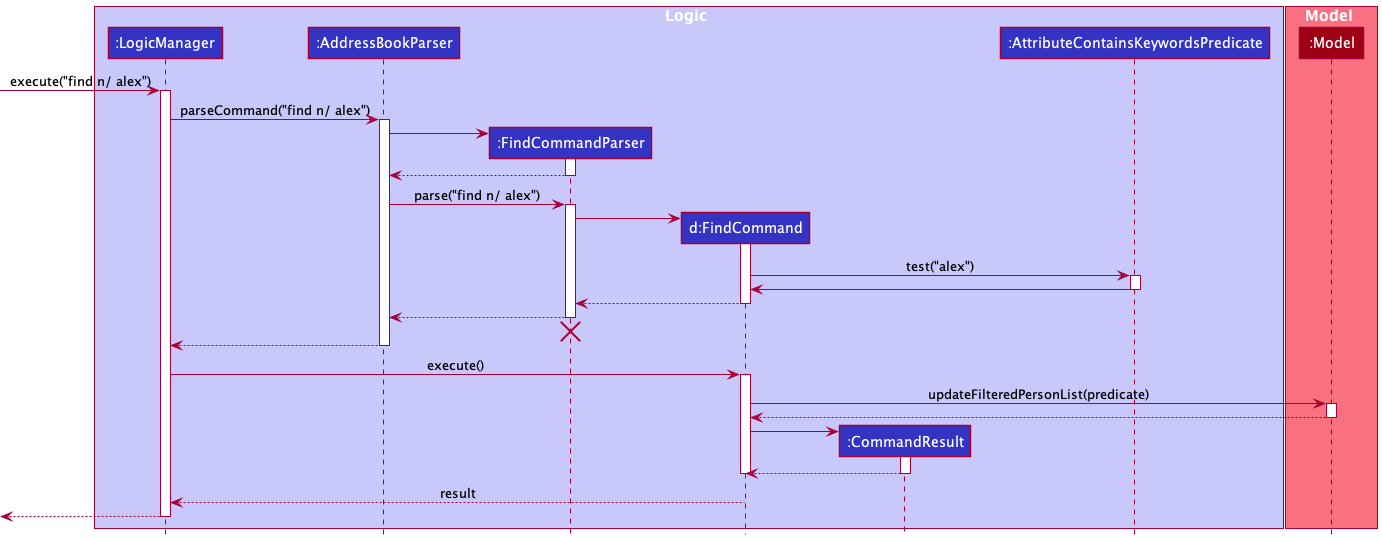
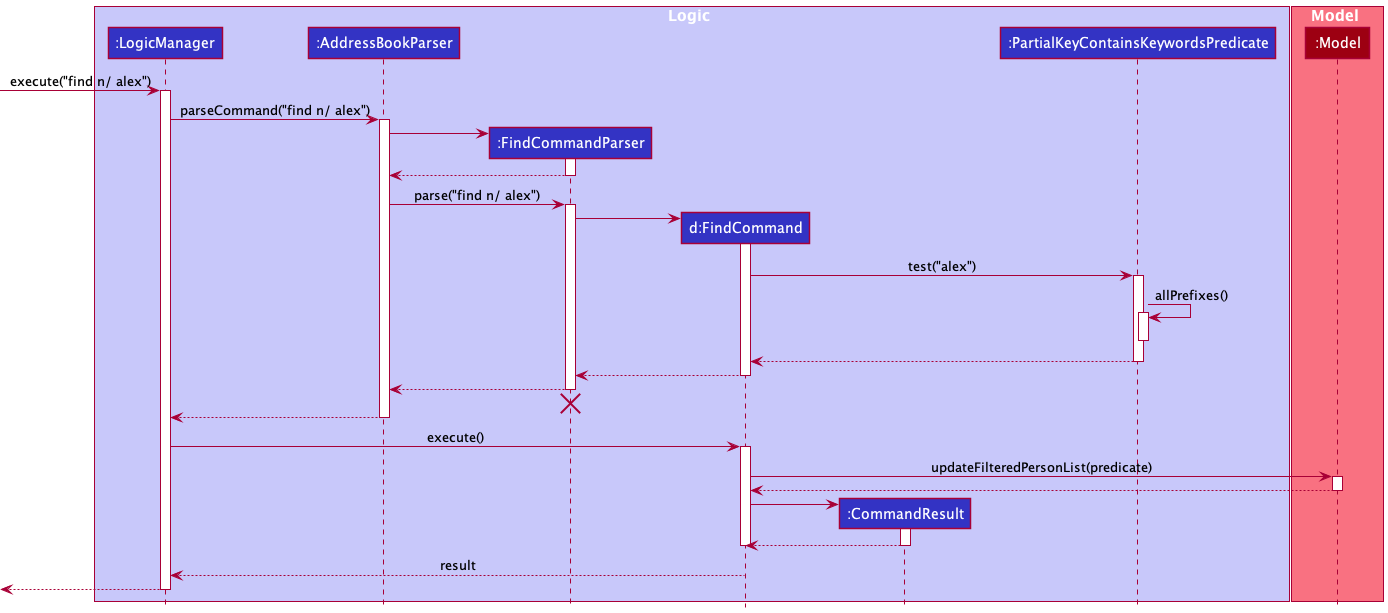
Edit DG, UG, modify testcases

diff --git a/src/test/java/seedu/address/model/person/TagContainsKeywordsPredicateTest.java b/src/test/java/seedu/address/model/person/TagContainsKeywordsPredicateTest.java
@@ -49,6 +49,11 @@ public class TagContainsKeywordsPredicateTest {
         TagContainsKeywordsPredicate predicate =
                 new TagContainsKeywordsPredicate(Arrays.asList("t/", "friends"), TAG_TYPE);
         assertTrue(predicate.test(new PersonBuilder().withTags("friends").build()));
+
+        //partial tag
+        predicate =
+                new TagContainsKeywordsPredicate(Arrays.asList("t/", "frie"), TAG_TYPE);
+        assertTrue(predicate.test(new PersonBuilder().withTags("friends").build()));
     }
 
     @Test
@@ -56,10 +61,6 @@ public class TagContainsKeywordsPredicateTest {
         // Full Tag with mixed-case
         TagContainsKeywordsPredicate predicate =
                 new TagContainsKeywordsPredicate(Arrays.asList("t/", "frIends"), TAG_TYPE);
-        assertFalse(predicate.test(new PersonBuilder().withTags("friends").build()));
-
-        // Partial Tag
-        predicate = new TagContainsKeywordsPredicate(Arrays.asList("t/", "fri"), TAG_TYPE);
         assertFalse(predicate.test(new PersonBuilder().withTags("friends").build()));
 
         // Non-Matching Tag

diff --git a/src/main/java/seedu/address/logic/commands/FindCommand.java b/src/main/java/seedu/address/logic/commands/FindCommand.java
@@ -14,10 +14,11 @@ public class FindCommand extends Command {
 
     public static final String COMMAND_WORD = "find";
 
-    public static final String MESSAGE_USAGE = COMMAND_WORD + ": Finds all persons whose names contain any of "
-            + "the specified keywords (case-insensitive) and displays them as a list with index numbers.\n"
-            + "Parameters: KEYWORD [MORE_KEYWORDS]...\n"
-            + "Example: " + COMMAND_WORD + " alice bob charlie";
+    public static final String MESSAGE_USAGE = COMMAND_WORD + ": Finds all persons whose attribute contain any of "
+            + "the specified keywords (case-insensitive and/or partial) "
+            + "and displays them as a list with index numbers.\n"
+            + "Parameters: ATTRIBUTE_TYPE KEYWORD [MORE_KEYWORDS]...\n"
+            + "Example: " + COMMAND_WORD + " n/ alice bob charlie";
 
     private final AttributeContainsKeywordsPredicate predicate;
 

diff --git a/src/main/java/seedu/address/logic/parser/FindCommandParser.java b/src/main/java/seedu/address/logic/parser/FindCommandParser.java
@@ -33,7 +33,7 @@ public class FindCommandParser implements Parser<FindCommand> {
      */
     public FindCommand parse(String args) throws ParseException {
         String trimmedArgs = args.trim();
-        if (trimmedArgs.isEmpty()) {
+        if (trimmedArgs.isEmpty() || !trimmedArgs.contains(" ")) {
             throw new ParseException(
                     String.format(MESSAGE_INVALID_COMMAND_FORMAT, FindCommand.MESSAGE_USAGE));
         }

diff --git a/docs/UserGuide.md b/docs/UserGuide.md
@@ -69,7 +69,7 @@ and TAs contacts within teams and tutorial groups. It is optimized for CLI users
 
 ### Viewing help : `help`
 
-Shows a message explaning how to access the help page.
+Shows a message explaining how to access the help page.
 
 ![help message](images/helpMessage.png)
 
@@ -117,20 +117,21 @@ Examples:
 
 Finds persons with the given search criteria and value.
 
-Format: `find KEYWORD [MORE_KEYWORDS]`
+Format: `find {n/|s/|N/|g/|T/|r/|p/|a/|t/} KEYWORD [MORE_KEYWORDS]`
 
 * The search is case-insensitive. e.g friend will also match Friend or FrIend or FRIEND.
 * The order of the keywords does not matter. e.g. `Hans Bo` will match `Bo Hans`.
-* Names and tags can be searched, by specifying `n/` or `t/` before the keyword respectively.
-* Partial words will also be matched e.g. Han will match Hans.
+* All attributes can be searched, by specifying the prefix before the keyword.
+* Partial matching can be done for all attributes except Tutorial ID and Role e.g. for name, Han will match Hans.
 * Persons matching at least one keyword will be returned (i.e. `OR` search).
   e.g. `Hans Bo` will return `Hans Gruber`, `Bo Yang`
 
 Examples:
-* `find n/Hans Bo` will return `Hans Gruber`, `Will Han` and `Bo Yang`
-* `find t/friend` will return all the contacts with the tag `friend`
-* `find John` returns `john` and `John Doe`
-* `find n/alex david` returns `Alex Yeoh`, `David Li`<br>
+* `find n/ Hans Bo` will return `Hans Gruber`, `Will Han` and `Bo Yang`
+* `find t/ friend` will return all the contacts with the tag `friend`
+* `find T/ 01` returns `Alex Yeoh`
+* `find t/ frien` returns `Alex Yeoh`, `Bernice Yu`
+* `find n/ alex david` returns `Alex Yeoh`, `David Li`<br>
   ![result for 'find alex david'](images/findAlexDavidResult.png)
 
 ### Deleting a person : `delete`

diff --git a/docs/DeveloperGuide.md b/docs/DeveloperGuide.md
@@ -190,15 +190,16 @@ The `DeleteCommand` returned by `DeleteCommand#all()` uses `AddressBook#resetDat
 #### Find feature
 
 The find feature is facilitated by `FindCommand`. It extends `Command` with a type to be searched, as well as the 
-key to be searched. This feature uses `AttributeContainsKeywordsPredicate#test(Person)` and the person to be searched
-is obtained using `ModelManager#getFilteredPersonList()`. If a search using a partial match can be done, the feature
-also uses `AttributeContainsKeywordsPredicate#testByType(Person, String)`.
+key to be searched. This feature uses one of the subclasses of `AttributeContainsKeywordsPredicate#test(Person)` 
+and the person to be searched is obtained using `ModelManager#getFilteredPersonList()`. 
+If a search using a partial match can be done, the feature also uses 
+`PartialKeyContainsKeywordsPredicate#test(Person)`.
 
 The following sequence diagram shows how the find operation works for a name:
 ![FindCommandNameSequenceDiagram](images/FindNameSequenceDiagram.png)
 
 The following sequence diagram shows how the find operation works for a Tutorial ID:
-[comment]: <> (![FindCommandTutIdSequenceDiagram]&#40;images/FindTutIdSequenceDiagram.png&#41;)
+![FindCommandTutIdSequenceDiagram](images/FindTutorialIdSequenceDiagram.png)
 
 #### Proposed Implementation
 
